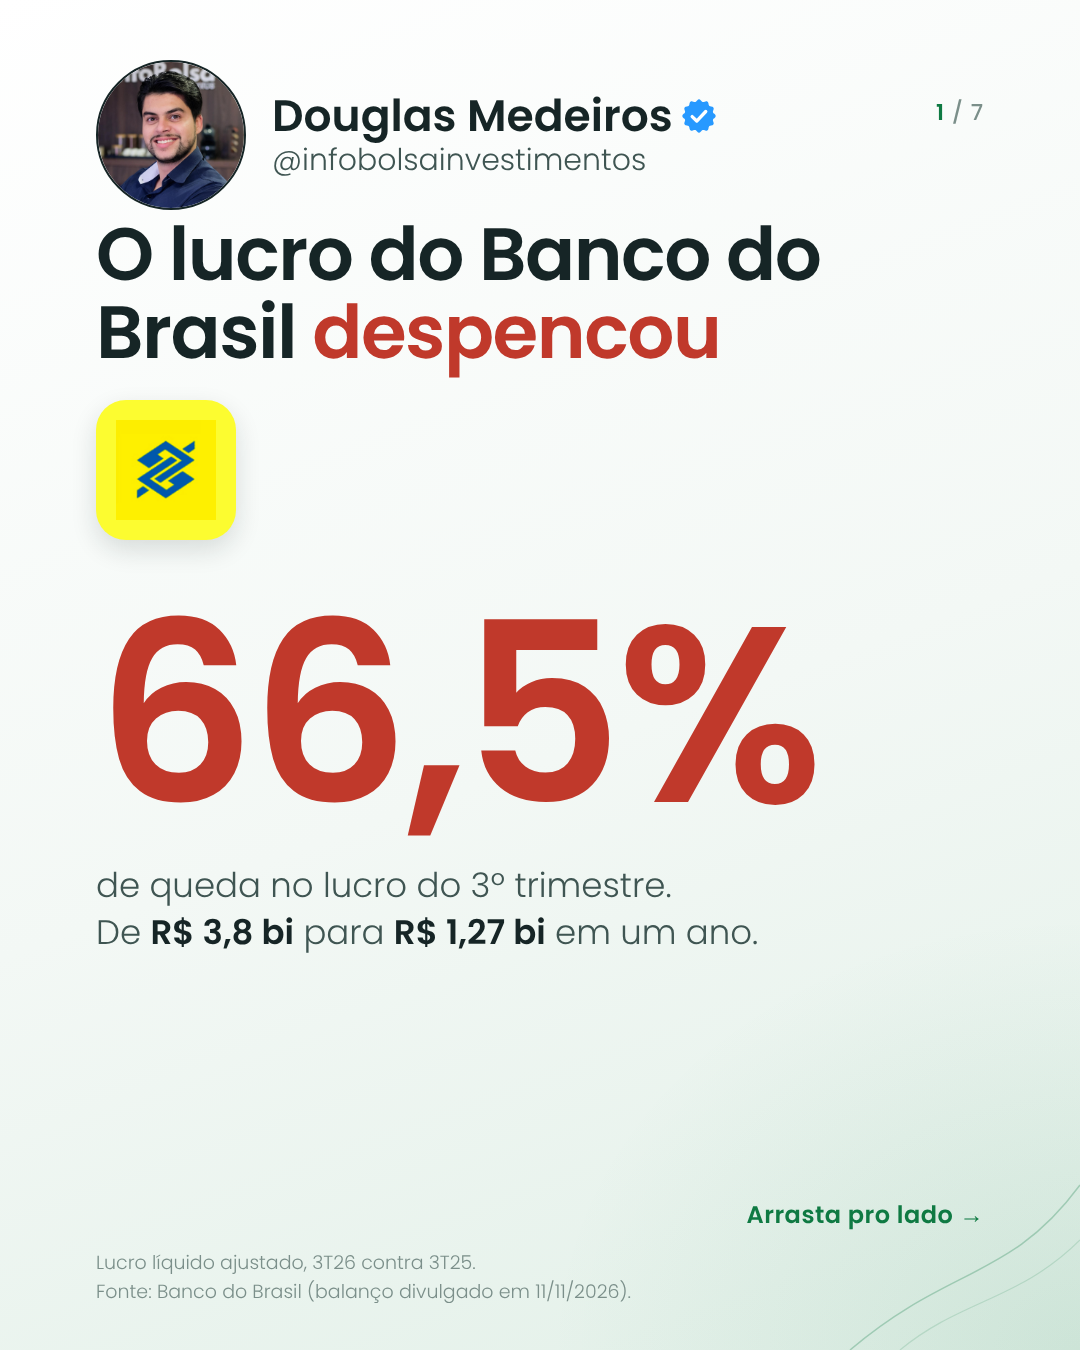
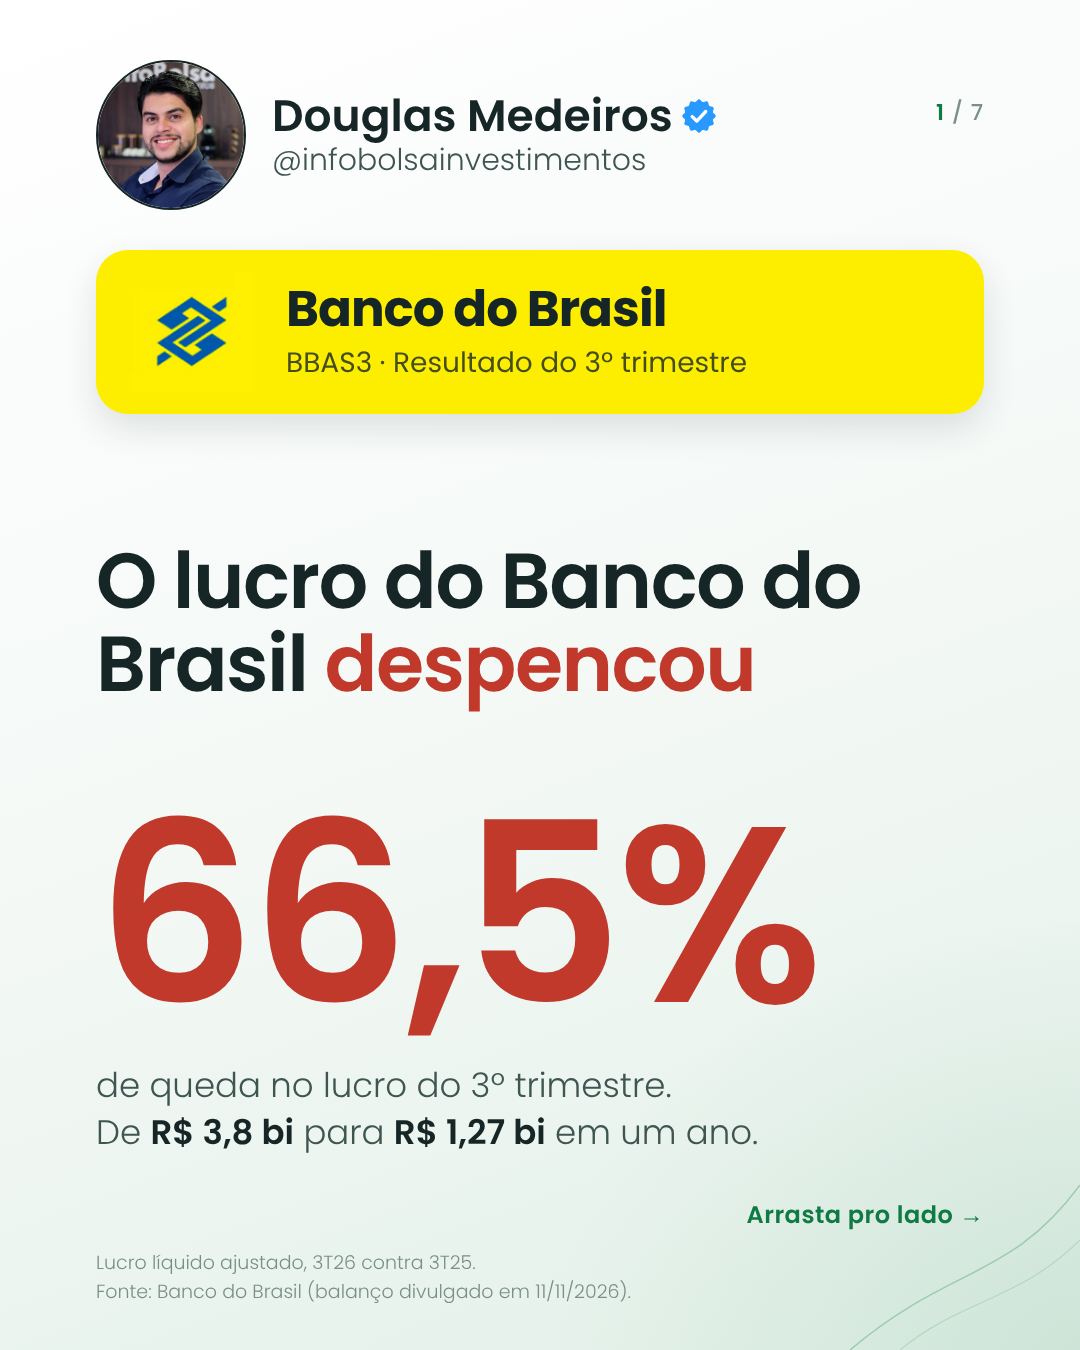
Carrossel BB: nova capa com faixa da marca
Claude-Session: https://claude.ai/code/session_01V4Ut9U2W4uPbxLAyJQKmJH

Changed region(s): [[0.0917, 0.1556, 0.9167, 0.8711]]

diff --git a/kit/gen_inst.py b/kit/gen_inst.py
@@ -556,9 +556,11 @@ def build_historia_slide(s, i, n, tema):
     lg = ""
     if s.get("logo"):
         sz = s.get("logo_size", 150)
-        lg = (f'<div style="position:absolute;left:96px;top:{s.get("logo_top", 400)}px;width:{sz}px;height:{sz}px;border-radius:30px;'
-              f'background:{s.get("logo_fundo", "#fff")};display:flex;align-items:center;justify-content:center;box-shadow:0 10px 26px rgba(22,37,38,.14)">'
-              f'<img src="{s["logo"]}" style="width:{int(sz*.72)}px;height:{int(sz*.72)}px;object-fit:contain"></div>')
+        lg = (f'<div style="position:absolute;left:96px;right:96px;top:{s.get("logo_top", 250)}px;height:{sz+44}px;border-radius:32px;'
+              f'background:{s.get("logo_fundo", "#fff")};display:flex;align-items:center;gap:34px;padding:0 36px;box-shadow:0 14px 34px rgba(22,37,38,.12)">'
+              f'<img src="{s["logo"]}" style="width:{sz}px;height:{sz}px;object-fit:contain;flex:none">'
+              f'<div style="color:#162526"><div style="font-weight:700;font-size:50px;line-height:1.1;letter-spacing:-1px">{s.get("logo_nome", "")}</div>'
+              f'<div style="font-weight:400;font-size:28px;margin-top:6px;opacity:.8">{s.get("logo_sub", "")}</div></div></div>')
     arr = '<div class="arrasta">Arrasta pro lado →</div>' if i == 1 and s.get("arrasta", True) else ""
     rod = "<br>".join(s.get("rodape", []))
     return f"""<!doctype html><html lang="pt-BR"><head><meta charset="utf-8"><style>{CSS.replace('FS/', FS)}{CSS_HIST}</style></head>
